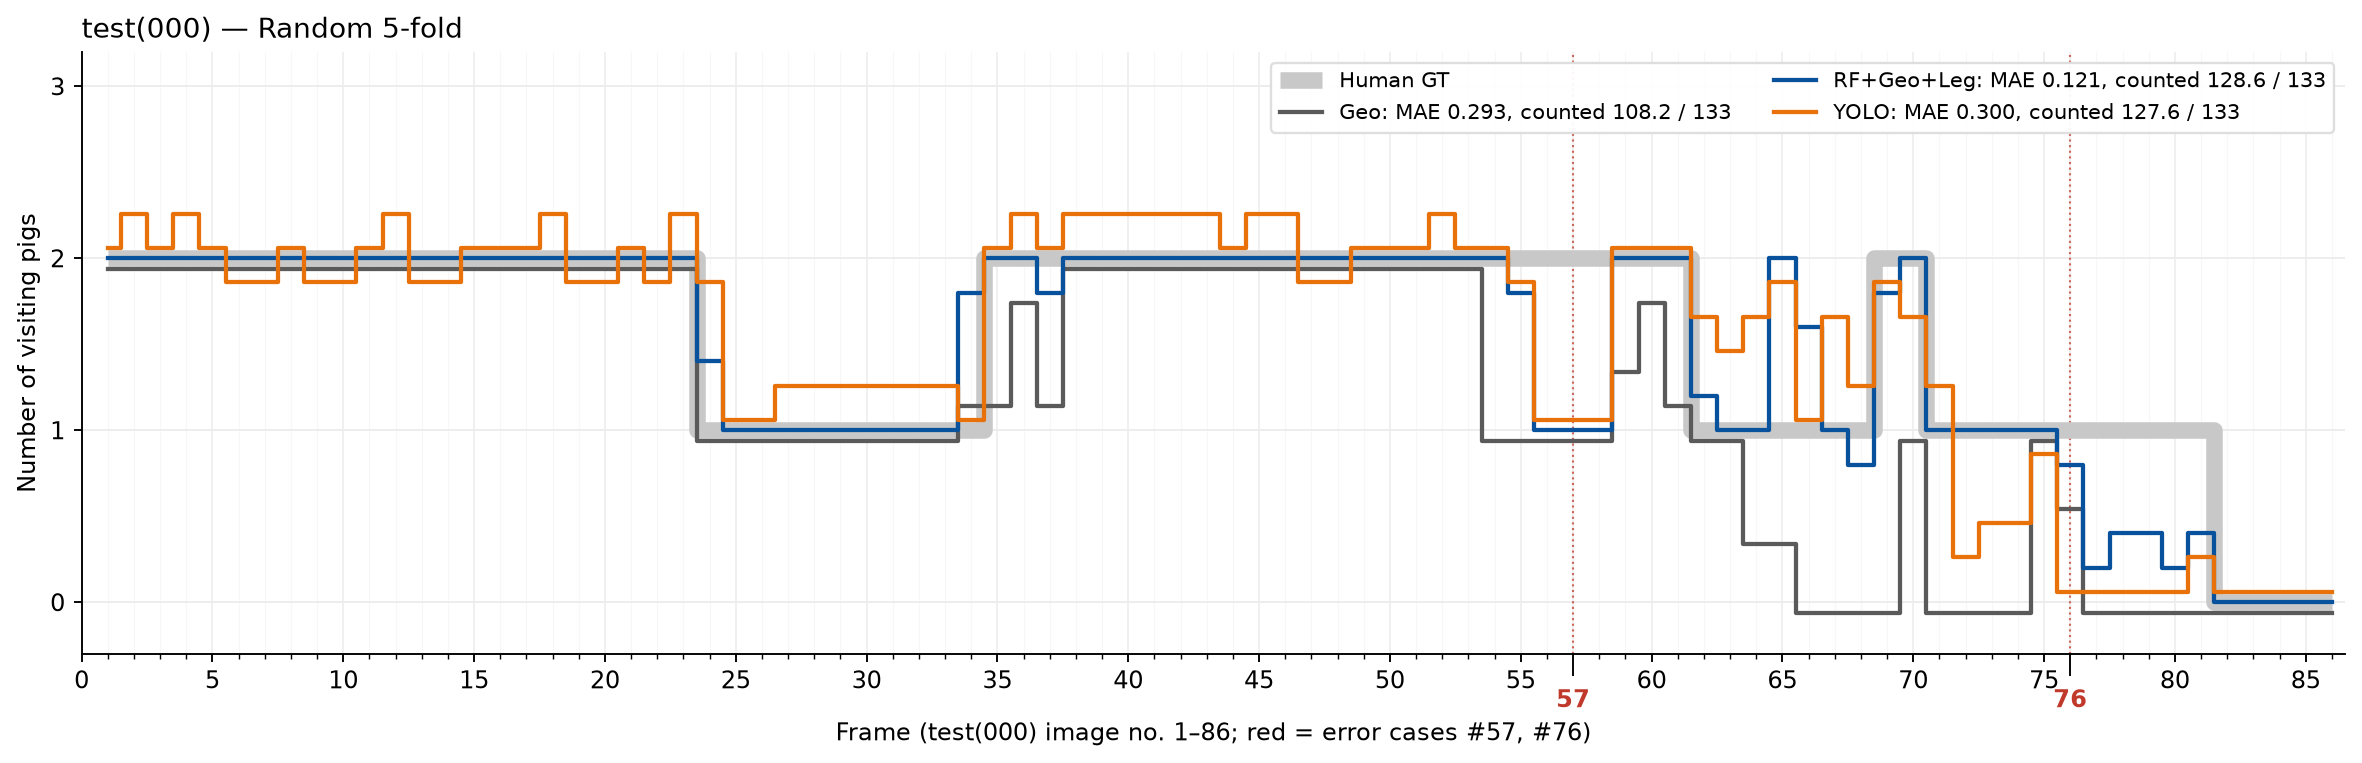
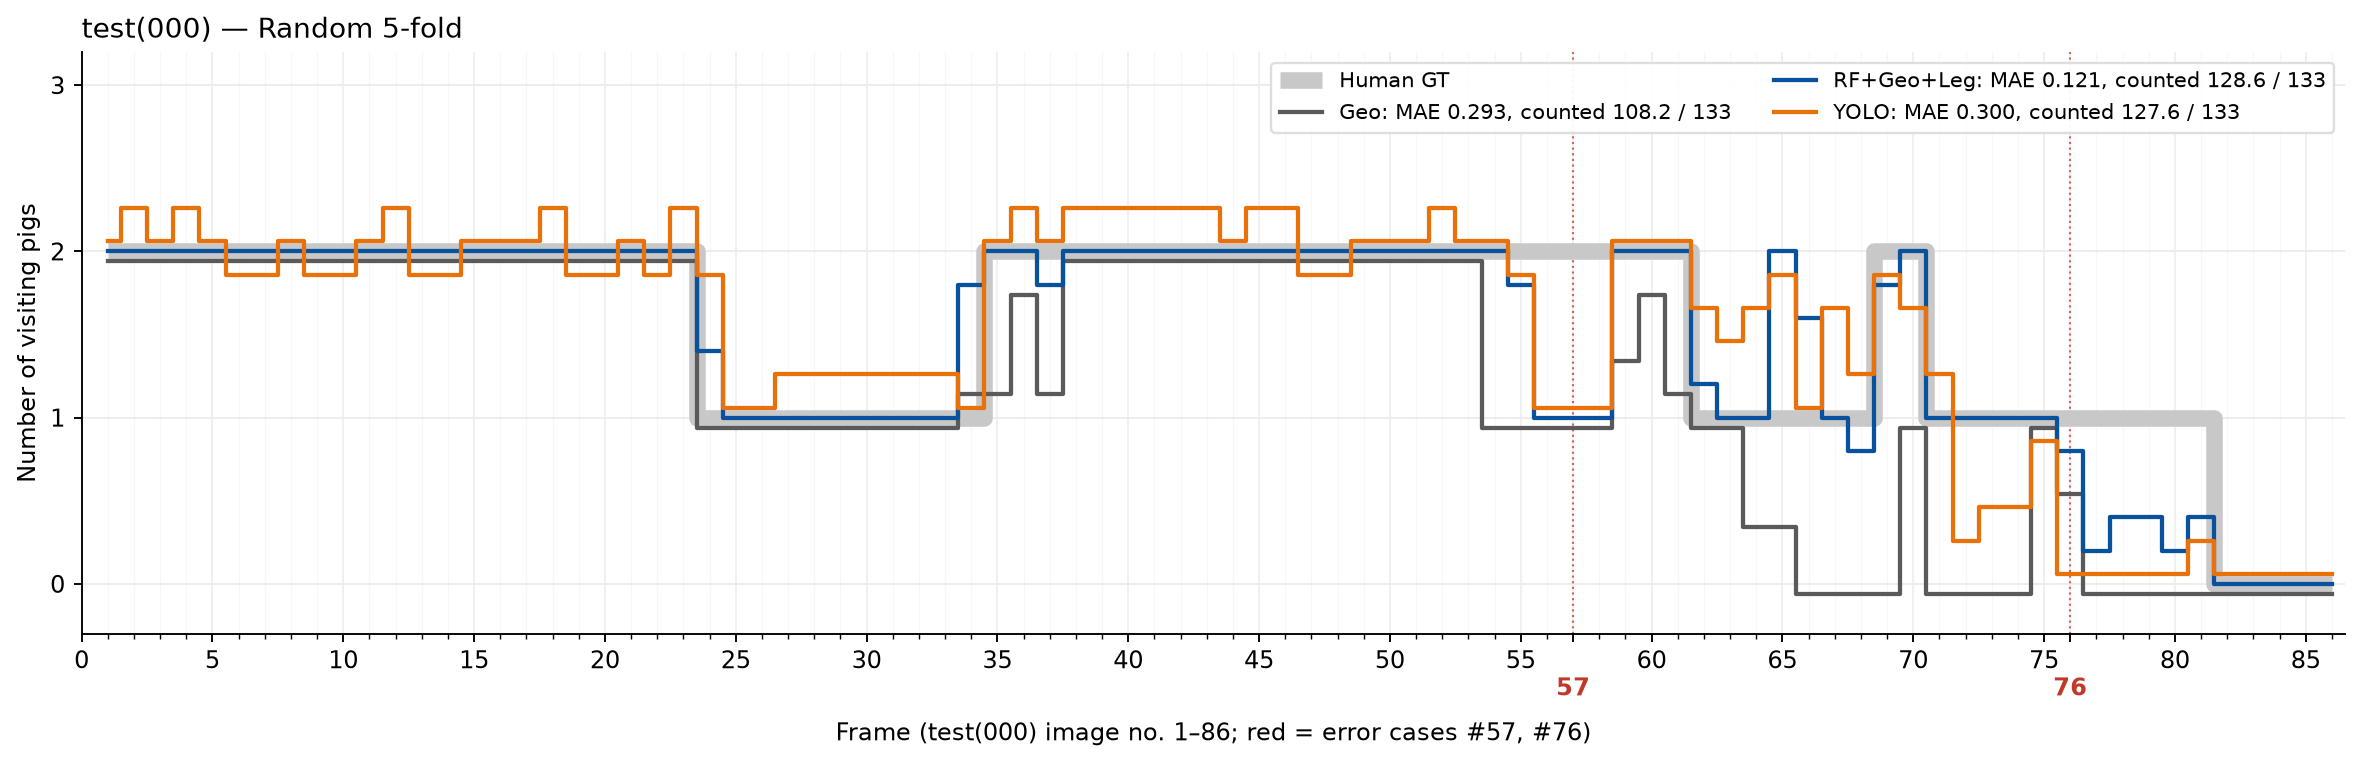
Graphs E and A: image-number ticks on every panel; #57/#76 drawn as red labels below the axis so they show on shared-axis panels too

diff --git a/counting/scripts/frame_axis.py b/counting/scripts/frame_axis.py
@@ -2,32 +2,28 @@
 
 사진 번호 = 시간순 1~86 (per_image_000.md의 #, 오차 사례 그림 all_models_<번호>.png와 같은 번호).
 눈금 = 0, 5, 10, ..., 85 + 가림 · 밀집 오차 사례 사진 #57 · #76.
-  - 57 · 76은 빨간 굵은 글씨, 바로 옆 55 · 75와 겹치지 않게 조금 아래에 씀
+  - 57 · 76은 빨간 굵은 글씨로, 바로 옆 55 · 75와 겹치지 않게 한 줄 아래에 씀
+    (눈금 글자가 아니라 축 아래 글자로 붙여서, 가로축을 공유하는 칸마다 똑같이 보이게 함)
   - 선 그래프는 57 · 76 위치에 옅은 빨간 점선 (lines=True)
 """
-from matplotlib.transforms import ScaledTranslation
-
 N_IMAGES = 86
 CASES = (57, 76)               # error_cases.py 기본값 (가림 · 밀집 오차 사례)
 CASE_COLOR = "#c0392b"
 
 
 def frame_ticks(ax, offset=0.0, first=0, lines=False, fontsize=None):
-    """ax의 가로축에 사진 번호 눈금을 둠.
+    """ax의 가로축에 사진 번호 눈금을 둠. 가로축 숫자를 보이게 하려면 호출 전후에 labelbottom=True.
     offset: 데이터 x = 사진 번호 + offset  (선 그래프 x = 1~86 → 0, heatmap 칸 인덱스 0~85 → −1)
     first : 첫 눈금 (선 그래프 0, heatmap은 사진 1부터라 1)"""
     nums = sorted(set([first] + list(range(5, N_IMAGES + 1, 5)) + list(CASES)))
-    ax.set_xticks([n + offset for n in nums], [str(n) for n in nums], fontsize=fontsize)
-    shift = ScaledTranslation(0, -8 / 72, ax.figure.dpi_scale_trans)
-    for lab, n in zip(ax.get_xticklabels(), nums):
-        if n in CASES:
-            lab.set_color(CASE_COLOR)
-            lab.set_fontweight("bold")
-            lab.set_transform(lab.get_transform() + shift)
-    for t, n in zip(ax.xaxis.get_major_ticks(), nums):
-        if n in CASES:
-            t.tick1line.set_markersize(t.tick1line.get_markersize() + 6)
-            t.tick1line.set_color(CASE_COLOR)
-    if lines:
-        for n in CASES:
+    ax.set_xticks([n + offset for n in nums], ["" if n in CASES else str(n) for n in nums], fontsize=fontsize)
+    from matplotlib import rcParams
+    from matplotlib.font_manager import FontProperties
+    fs = fontsize or FontProperties(size=rcParams["xtick.labelsize"]).get_size_in_points()
+    ax.xaxis.labelpad = fs * 1.25 + 8                     # 가로축 제목을 빨간 57 · 76 줄 아래로
+    for n in CASES:
+        ax.annotate(str(n), xy=(n + offset, 0), xycoords=("data", "axes fraction"), xytext=(0, -(fs * 1.25 + 6)),
+                    textcoords="offset points", ha="center", va="top", fontsize=fs, color=CASE_COLOR,
+                    fontweight="bold", annotation_clip=False)
+        if lines:
             ax.axvline(n + offset, color=CASE_COLOR, lw=0.9, ls=":", alpha=0.75, zorder=0.6)

diff --git a/counting/scripts/per_image_000.py b/counting/scripts/per_image_000.py
@@ -149,7 +149,7 @@ def main():
 def plot_e(base, frames):
     """그래프 E: 행 = 방법, 열 = 분할. GT 계단선 + fold 평균선 + fold 최소~최대 띠."""
     ms = [(m, lab) for m, lab in METHODS if m in frames]
-    fig, axes = plt.subplots(len(ms), 2, figsize=(15, 2.0 * len(ms) + 1.2), sharex=True, sharey=True)
+    fig, axes = plt.subplots(len(ms), 2, figsize=(15, 2.5 * len(ms) + 1.2), sharex=True, sharey=True)
     x = np.arange(1, len(base) + 1)                      # 사진 번호 1~86
     for c, (key, elab, _, p) in enumerate(SCHEMES):
         for r, (m, lab) in enumerate(ms):
@@ -172,7 +172,8 @@ def plot_e(base, frames):
             ax.grid(axis="y", color="#e5e5e5", lw=0.8)
             ax.set_axisbelow(True)
             ax.spines[["top", "right"]].set_visible(False)
-            frame_ticks(ax, lines=True)
+            frame_ticks(ax, lines=True, fontsize=8)
+            ax.tick_params(axis="x", labelbottom=True)          # 10칸 모두 가로축 숫자
     for ax in axes[-1]:
         ax.set_xlabel("test(000) image (time order, 1–86; red = error cases #57, #76)")
     from matplotlib.lines import Line2D

diff --git a/counting/scripts/compare_folds.py b/counting/scripts/compare_folds.py
@@ -474,6 +474,7 @@ def plot_a(out, rf_best):
         ax.spines[["top", "right"]].set_visible(False)
         ax.legend(frameon=False, fontsize=8, ncol=4, loc="lower left")
         frame_ticks(ax, lines=True)
+        ax.tick_params(axis="x", labelbottom=True)              # 두 칸 모두 가로축 숫자
     axes[-1].set_xlabel("test(000) image (time order, 1–86; red = error cases #57, #76)")
     fig.suptitle("Per-image visiting count on test(000) (line = mean over folds, band = min–max)")
     fig.tight_layout()
